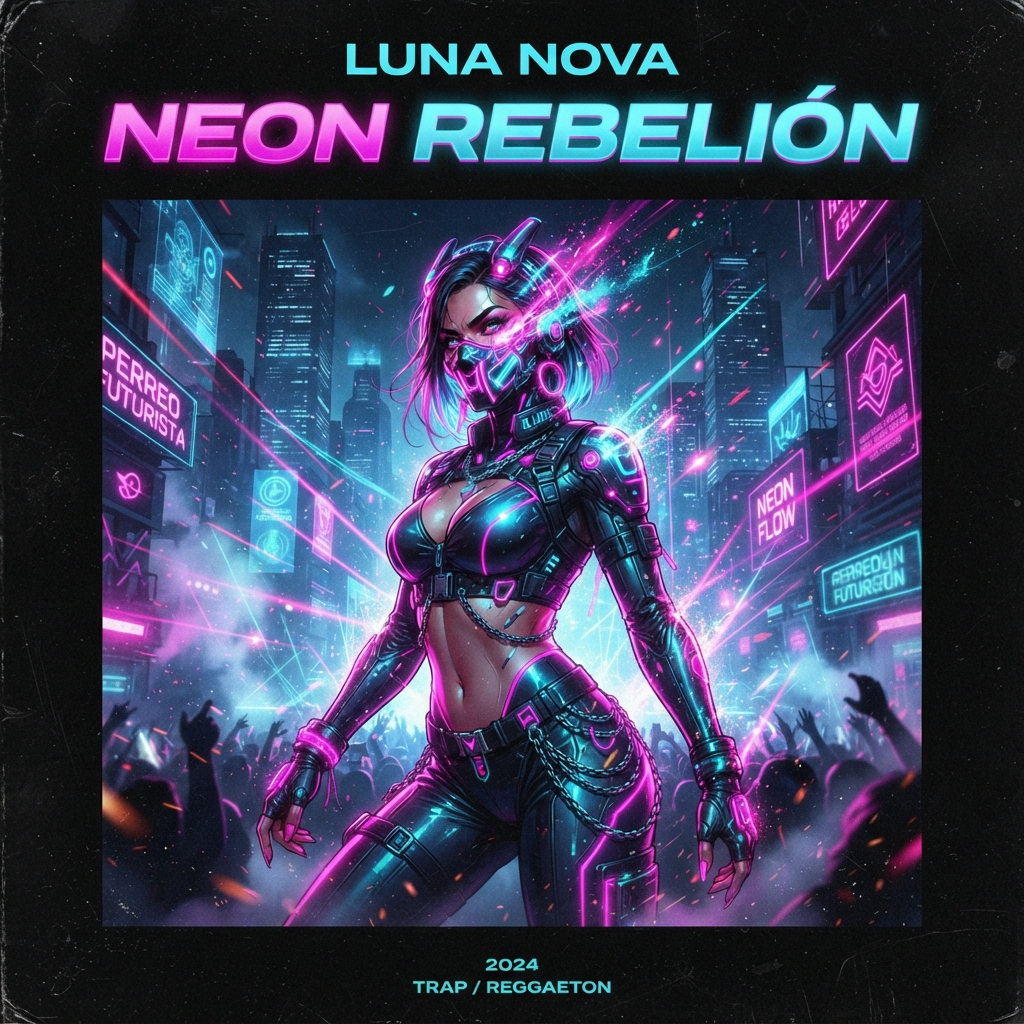
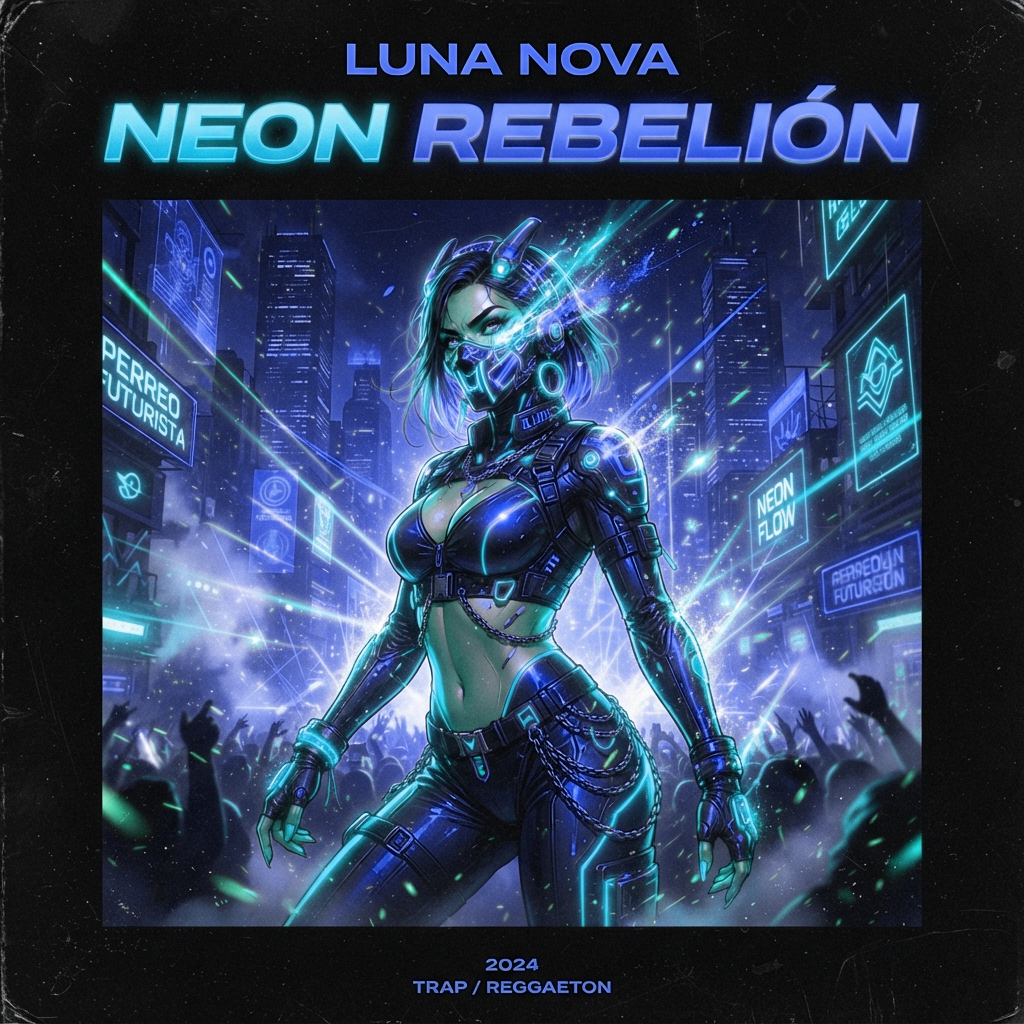
feat(design): switch palette to Electric Sapphire & Emerald Studio and cool studio covers

diff --git a/src/index.css b/src/index.css
@@ -4,53 +4,53 @@
 
 :root,
 [data-theme='light'] {
-  --bg-primary: #F4F5FA;
+  --bg-primary: #F2F6FC;
   --bg-mesh:
-    radial-gradient(at 12% 8%, rgba(99, 102, 241, 0.14) 0px, transparent 48%),
-    radial-gradient(at 88% 12%, rgba(236, 72, 153, 0.12) 0px, transparent 46%),
-    radial-gradient(at 52% 92%, rgba(249, 115, 22, 0.10) 0px, transparent 52%);
-  --bg-card: rgba(255, 255, 255, 0.88);
-  --bg-elevated: #ECEEF6;
-  --text-primary: #0B0D17;
-  --text-muted: #525866;
-  --brand-primary: #4F46E5;
+    radial-gradient(at 12% 8%, rgba(37, 99, 235, 0.13) 0px, transparent 48%),
+    radial-gradient(at 88% 12%, rgba(6, 182, 212, 0.12) 0px, transparent 46%),
+    radial-gradient(at 52% 92%, rgba(16, 185, 129, 0.09) 0px, transparent 52%);
+  --bg-card: rgba(255, 255, 255, 0.90);
+  --bg-elevated: #E6EEF8;
+  --text-primary: #090E1A;
+  --text-muted: #475569;
+  --brand-primary: #2563EB;
   --on-brand: #FFFFFF;
-  --brand-soft: rgba(99, 102, 241, 0.12);
-  --brand-coral: #DB2777;
+  --brand-soft: rgba(37, 99, 235, 0.11);
+  --brand-coral: #0284C7;
   --on-coral: #FFFFFF;
-  --coral-soft: rgba(236, 72, 153, 0.12);
-  --brand-amber: #EA580C;
-  --accent-amber: #D97706;
+  --coral-soft: rgba(6, 182, 212, 0.12);
+  --brand-amber: #059669;
+  --accent-amber: #059669;
   --accent-danger: #DC2626;
   --border-subtle: rgba(15, 23, 42, 0.09);
-  --ring-focus: #6366F1;
-  --ambient-opacity: 0.24;
-  --ambient-scrim: rgba(255, 255, 255, 0.72);
+  --ring-focus: #2563EB;
+  --ambient-opacity: 0.22;
+  --ambient-scrim: rgba(255, 255, 255, 0.76);
 }
 
 [data-theme='dark'] {
-  --bg-primary: #07080E;
+  --bg-primary: #060913;
   --bg-mesh:
-    radial-gradient(at 12% 8%, rgba(99, 102, 241, 0.24) 0px, transparent 50%),
-    radial-gradient(at 88% 12%, rgba(236, 72, 153, 0.18) 0px, transparent 48%),
-    radial-gradient(at 52% 92%, rgba(249, 115, 22, 0.14) 0px, transparent 54%);
-  --bg-card: rgba(18, 20, 32, 0.84);
-  --bg-elevated: rgba(30, 33, 50, 0.92);
+    radial-gradient(at 12% 8%, rgba(37, 99, 235, 0.24) 0px, transparent 50%),
+    radial-gradient(at 88% 12%, rgba(6, 182, 212, 0.18) 0px, transparent 48%),
+    radial-gradient(at 52% 92%, rgba(16, 185, 129, 0.12) 0px, transparent 54%);
+  --bg-card: rgba(13, 19, 34, 0.86);
+  --bg-elevated: rgba(23, 33, 56, 0.92);
   --text-primary: #F8FAFC;
   --text-muted: #94A3B8;
-  --brand-primary: #818CF8;
-  --on-brand: #090A14;
-  --brand-soft: rgba(129, 140, 248, 0.16);
-  --brand-coral: #F472B6;
-  --on-coral: #1B0712;
-  --coral-soft: rgba(244, 114, 182, 0.16);
-  --brand-amber: #FB923C;
-  --accent-amber: #F59E0B;
+  --brand-primary: #60A5FA;
+  --on-brand: #050914;
+  --brand-soft: rgba(59, 130, 246, 0.16);
+  --brand-coral: #22D3EE;
+  --on-coral: #041E24;
+  --coral-soft: rgba(34, 211, 238, 0.15);
+  --brand-amber: #34D399;
+  --accent-amber: #34D399;
   --accent-danger: #EF4444;
   --border-subtle: rgba(255, 255, 255, 0.10);
-  --ring-focus: #818CF8;
-  --ambient-opacity: 0.36;
-  --ambient-scrim: rgba(11, 13, 23, 0.68);
+  --ring-focus: #38BDF8;
+  --ambient-opacity: 0.34;
+  --ambient-scrim: rgba(6, 9, 19, 0.70);
 }
 
 @layer base {
@@ -77,7 +77,7 @@
 }
 
 .bg-brand-gradient {
-  background-image: linear-gradient(135deg, #6366F1 0%, #EC4899 52%, #F97316 100%);
+  background-image: linear-gradient(135deg, #4F46E5 0%, #2563EB 52%, #06B6D4 100%);
   color: #FFFFFF;
 }
 

diff --git a/android-tv/app/src/main/java/com/poneleplay/tv/ui/theme/Theme.kt b/android-tv/app/src/main/java/com/poneleplay/tv/ui/theme/Theme.kt
@@ -7,19 +7,19 @@ import androidx.tv.material3.MaterialTheme
 import androidx.tv.material3.darkColorScheme
 
 object PonelePlayTvColors {
-    val BgCanvas = Color(0xFF07080E)
-    val BgCard = Color(0xFF121420)
-    val BgElevated = Color(0xFF1E2132)
-    val BrandIndigo = Color(0xFF6366F1)
-    val BrandMagenta = Color(0xFFEC4899)
-    val BrandAmber = Color(0xFFF97316)
-    val BrandTeal = Color(0xFF818CF8)
-    val CoralAccent = Color(0xFFF472B6)
+    val BgCanvas = Color(0xFF060913)
+    val BgCard = Color(0xFF0D1322)
+    val BgElevated = Color(0xFF172138)
+    val BrandIndigo = Color(0xFF2563EB)
+    val BrandMagenta = Color(0xFF06B6D4)
+    val BrandAmber = Color(0xFF10B981)
+    val BrandTeal = Color(0xFF60A5FA)
+    val CoralAccent = Color(0xFF22D3EE)
     val OnBrandTeal = Color(0xFFFFFFFF)
     val TextPrimary = Color(0xFFF8FAFC)
     val TextMuted = Color(0xFF94A3B8)
     val BorderSubtle = Color(0xFF282C40)
-    val AmberGold = Color(0xFFF59E0B)
+    val AmberGold = Color(0xFF34D399)
 }
 
 @OptIn(ExperimentalTvMaterial3Api::class)

diff --git a/src/pages/LandingPage.tsx b/src/pages/LandingPage.tsx
@@ -117,9 +117,9 @@ export const LandingPage: React.FC = () => {
                     <div className="min-w-0">
                       <div className="flex items-center gap-1.5">
                         <span className="eq-bar h-2.5 w-0.5 rounded-full bg-white" />
-                        <span className="eq-bar eq-bar-2 h-3.5 w-0.5 rounded-full bg-pink-400" />
-                        <span className="eq-bar eq-bar-3 h-2 w-0.5 rounded-full bg-orange-400" />
-                        <span className="font-mono text-[10px] font-bold uppercase tracking-wider text-pink-300">
+                        <span className="eq-bar eq-bar-2 h-3.5 w-0.5 rounded-full bg-sky-400" />
+                        <span className="eq-bar eq-bar-3 h-2 w-0.5 rounded-full bg-emerald-400" />
+                        <span className="font-mono text-[10px] font-bold uppercase tracking-wider text-cyan-300">
                           En vivo · PLAY42
                         </span>
                       </div>

diff --git a/src/components/PonelePlayLogo.tsx b/src/components/PonelePlayLogo.tsx
@@ -31,9 +31,9 @@ export const PonelePlayLogo: React.FC<PonelePlayLogoProps> = ({
       >
         <defs>
           <linearGradient id={`${gradId}-bg`} x1="0" y1="0" x2="48" y2="48" gradientUnits="userSpaceOnUse">
-            <stop offset="0%" stopColor="#6366F1" />
-            <stop offset="52%" stopColor="#EC4899" />
-            <stop offset="100%" stopColor="#F97316" />
+            <stop offset="0%" stopColor="#4F46E5" />
+            <stop offset="52%" stopColor="#2563EB" />
+            <stop offset="100%" stopColor="#06B6D4" />
           </linearGradient>
           <linearGradient id={`${gradId}-sheen`} x1="12" y1="4" x2="36" y2="26" gradientUnits="userSpaceOnUse">
             <stop offset="0%" stopColor="#FFFFFF" stopOpacity="0.42" />

diff --git a/index.html b/index.html
@@ -3,7 +3,7 @@
   <head>
     <meta charset="UTF-8" />
     <meta name="viewport" content="width=device-width, initial-scale=1.0, viewport-fit=cover" />
-    <meta name="theme-color" content="#6366F1" />
+    <meta name="theme-color" content="#2563EB" />
     <meta name="description" content="PonelePlay V2 — Jukebox colaborativo en tiempo real para fiestas con YouTube Music (sin Premium), Spotify, PWA y Android TV." />
     <link rel="icon" type="image/svg+xml" href="/icons/icon-192.svg" />
     <link rel="apple-touch-icon" href="/icons/icon-192.svg" />

diff --git a/tailwind.config.js b/tailwind.config.js
@@ -26,9 +26,9 @@ export default {
         mono: ['"JetBrains Mono"', 'monospace'],
       },
       boxShadow: {
-        surface: '0 8px 30px -6px rgba(99, 102, 241, 0.14)',
-        elevated: '0 20px 44px -10px rgba(15, 23, 42, 0.22)',
-        aurora: '0 12px 32px -6px rgba(236, 72, 153, 0.32)',
+        surface: '0 8px 30px -6px rgba(37, 99, 235, 0.14)',
+        elevated: '0 20px 44px -10px rgba(9, 14, 26, 0.22)',
+        aurora: '0 12px 32px -6px rgba(6, 182, 212, 0.34)',
       }
     }
   },

diff --git a/vite.config.ts b/vite.config.ts
@@ -12,8 +12,8 @@ export default defineConfig({
         name: 'PonelePlay V2 — Social Party Jukebox',
         short_name: 'PonelePlay',
         description: 'Jukebox colaborativo en tiempo real para fiestas con YouTube Music (sin Premium) y Spotify.',
-        theme_color: '#6366F1',
-        background_color: '#F4F5FA',
+        theme_color: '#2563EB',
+        background_color: '#F2F6FC',
         display: 'standalone',
         orientation: 'portrait',
         start_url: '/',

diff --git a/design-system/poneleplay-v2/MASTER.md b/design-system/poneleplay-v2/MASTER.md
@@ -1,55 +1,55 @@
-# Design System Master File — Sonic Aurora (Daylight Studio & Obsidian Aurora)
+# Design System Master File — Electric Sapphire & Emerald Studio
 
 **Project:** PonelePlay V2  
 **Updated:** 2026-11-16  
-**Logo:** **Sonic Prism** — Squircle diagonal `#6366F1 -> #EC4899 -> #F97316` con brillo cristalino, ondas acústicas y núcleo `P + Play`, acompañado de wordmark `Ponele` + `Play` ([PonelePlayLogo.tsx](file:///d:/PonelePlay%20V2/src/components/PonelePlayLogo.tsx))  
-**Rule:** Modo Claro (**Daylight Studio**) y Modo Oscuro (**Obsidian Aurora**) 100% separados por tema activo (cero mezcla entre temas en una misma vista, incluyendo Modo TV y App Smart TV).
+**Logo:** **Sonic Prism** — Squircle diagonal Indigo -> Zafiro -> Cyan (`#4F46E5 -> #2563EB -> #06B6D4`) con brillo cristalino, ondas acústicas y núcleo `P + Play`, acompañado de wordmark `Ponele` + `Play` ([PonelePlayLogo.tsx](file:///d:/PonelePlay%20V2/src/components/PonelePlayLogo.tsx))  
+**Rule:** Modo Claro (**Arctic Sapphire Studio**) y Modo Oscuro (**Abyssal Sapphire**) 100% separados por tema activo (cero mezcla entre temas en una misma vista, incluyendo Modo TV y App Smart TV, y cero tonos rosados, fucsias o anaranjados).
 
 ## Color Tokens
 
-### Light Mode — Daylight Studio (`:root, [data-theme='light']`)
+### Light Mode — Arctic Sapphire Studio (`:root, [data-theme='light']`)
 | Role | Value | CSS Variable |
 |---|---|---|
-| Canvas | `#F4F5FA` | `--bg-primary` |
-| Ambient Mesh | `radial-gradient` Indigo (`0.14`), Magenta (`0.12`), Amber (`0.10`) | `--bg-mesh` |
-| Card (Glass) | `rgba(255, 255, 255, 0.88)` | `--bg-card` |
-| Elevated | `#ECEEF6` | `--bg-elevated` |
-| Ink Primary | `#0B0D17` | `--text-primary` |
-| Ink Muted | `#525866` | `--text-muted` |
-| Brand Indigo | `#4F46E5` | `--brand-primary` |
+| Canvas | `#F2F6FC` | `--bg-primary` |
+| Ambient Mesh | `radial-gradient` Sapphire (`0.13`), Cyan (`0.12`), Emerald (`0.09`) | `--bg-mesh` |
+| Card (Glass) | `rgba(255, 255, 255, 0.90)` | `--bg-card` |
+| Elevated | `#E6EEF8` | `--bg-elevated` |
+| Ink Primary | `#090E1A` | `--text-primary` |
+| Ink Muted | `#475569` | `--text-muted` |
+| Brand Sapphire | `#2563EB` | `--brand-primary` |
 | On Brand | `#FFFFFF` | `--on-brand` |
-| Brand Soft | `rgba(99, 102, 241, 0.12)` | `--brand-soft` |
-| Accent Magenta | `#DB2777` | `--brand-coral` |
-| On Coral | `#FFFFFF` | `--on-coral` |
-| Coral Soft | `rgba(236, 72, 153, 0.12)` | `--coral-soft` |
-| Brand Amber | `#EA580C` | `--brand-amber` |
+| Brand Soft | `rgba(37, 99, 235, 0.11)` | `--brand-soft` |
+| Accent Sky / Cyan | `#0284C7` | `--brand-coral` |
+| On Accent | `#FFFFFF` | `--on-coral` |
+| Accent Soft | `rgba(6, 182, 212, 0.12)` | `--coral-soft` |
+| Emerald Accent | `#059669` | `--brand-amber` / `--accent-amber` |
 | Hairline Border | `rgba(15, 23, 42, 0.09)` | `--border-subtle` |
-| Ambient Opacity / Scrim | `0.24` / `rgba(255, 255, 255, 0.72)` | `--ambient-opacity` / `--ambient-scrim` |
+| Ambient Opacity / Scrim | `0.22` / `rgba(255, 255, 255, 0.76)` | `--ambient-opacity` / `--ambient-scrim` |
 
-### Dark Mode — Obsidian Aurora (`[data-theme='dark']`)
+### Dark Mode — Abyssal Sapphire (`[data-theme='dark']`)
 | Role | Value | CSS Variable |
 |---|---|---|
-| Canvas | `#07080E` | `--bg-primary` |
-| Ambient Mesh | `radial-gradient` Indigo (`0.24`), Magenta (`0.18`), Amber (`0.14`) | `--bg-mesh` |
-| Card (Glass) | `rgba(18, 20, 32, 0.84)` | `--bg-card` |
-| Elevated | `rgba(30, 33, 50, 0.92)` | `--bg-elevated` |
+| Canvas | `#060913` | `--bg-primary` |
+| Ambient Mesh | `radial-gradient` Sapphire (`0.24`), Cyan (`0.18`), Emerald (`0.12`) | `--bg-mesh` |
+| Card (Glass) | `rgba(13, 19, 34, 0.86)` | `--bg-card` |
+| Elevated | `rgba(23, 33, 56, 0.92)` | `--bg-elevated` |
 | Ink Primary | `#F8FAFC` | `--text-primary` |
 | Ink Muted | `#94A3B8` | `--text-muted` |
-| Brand Indigo | `#818CF8` | `--brand-primary` |
-| On Brand | `#090A14` | `--on-brand` |
-| Brand Soft | `rgba(129, 140, 248, 0.16)` | `--brand-soft` |
-| Accent Magenta | `#F472B6` | `--brand-coral` |
-| On Coral | `#1B0712` | `--on-coral` |
-| Coral Soft | `rgba(244, 114, 182, 0.16)` | `--coral-soft` |
-| Brand Amber | `#FB923C` | `--brand-amber` |
+| Brand Sky Blue | `#60A5FA` | `--brand-primary` |
+| On Brand | `#050914` | `--on-brand` |
+| Brand Soft | `rgba(59, 130, 246, 0.16)` | `--brand-soft` |
+| Accent Cyber Cyan | `#22D3EE` | `--brand-coral` |
+| On Accent | `#041E24` | `--on-coral` |
+| Accent Soft | `rgba(34, 211, 238, 0.15)` | `--coral-soft` |
+| Emerald Accent | `#34D399` | `--brand-amber` / `--accent-amber` |
 | Hairline Border | `rgba(255, 255, 255, 0.10)` | `--border-subtle` |
-| Ambient Opacity / Scrim | `0.36` / `rgba(11, 13, 23, 0.68)` | `--ambient-opacity` / `--ambient-scrim` |
+| Ambient Opacity / Scrim | `0.34` / `rgba(6, 9, 19, 0.70)` | `--ambient-opacity` / `--ambient-scrim` |
 
 ### Brand Gradient & Ambient Effects
-- `.bg-brand-gradient`: `linear-gradient(135deg, #6366F1 0%, #EC4899 52%, #F97316 100%)`, `color: #FFFFFF` (uso exclusivo en botones primarios, badges activos, emblema Sonic Prism y controles focales; texto siempre en tonos sólidos de alto contraste)
+- `.bg-brand-gradient`: `linear-gradient(135deg, #4F46E5 0%, #2563EB 52%, #06B6D4 100%)`, `color: #FFFFFF` (uso exclusivo en botones primarios, badges activos, emblema Sonic Prism y controles focales; texto siempre en tonos sólidos de alto contraste)
 - `.glass-card`: `background-color: var(--bg-card); backdrop-filter: blur(22px);`
 - `.ambient-cover-blur` + `.ambient-scrim`: halo cromático difuminado de portada (`blur(46px) saturate(1.55)`) con scrim de contraste garantizado (`>= 4.5:1`)
-- Shadow Aurora (`shadow-aurora`): `0 12px 32px -6px rgba(236, 72, 153, 0.32)`
+- Shadow Aurora (`shadow-aurora`): `0 12px 32px -6px rgba(6, 182, 212, 0.34)`
 
 ## Typography & Interaction
 - **Display:** `Outfit` (500, 600, 700, 800)

diff --git a/docs/specs/02-stitch-master-prompt.md b/docs/specs/02-stitch-master-prompt.md
@@ -1,58 +1,58 @@
-# Pliego de Diseño Formal — PonelePlay V2 (Sonic Aurora)
+# Pliego de Diseño Formal — PonelePlay V2 (Electric Sapphire & Emerald Studio)
 
-**Identidad Visual:** Logo **Sonic Prism** (squircle diagonal Indigo -> Magenta -> Ámbar `#6366F1 -> #EC4899 -> #F97316` con brillo cristalino, ondas de audio y núcleo `P + Play`) + Sistema **Sonic Aurora** (**Daylight Studio** claro y **Obsidian Aurora** oscuro).  
-**Regla de Temas:** Modo Claro y Modo Oscuro 100% separados en todas las vistas (incluyendo Landing, Sala en Vivo, Modo TV Web, App Smart TV y Resumen Final).  
-**Regla de Portadas y Audio:** Reproductor horizontal compacto enfocado en portada de álbum (estudio AI en `/covers/`), nunca recuadro de video visible (`IFrame` oculto `sr-only`).
+**Identidad Visual:** Logo **Sonic Prism** (squircle diagonal Indigo -> Zafiro -> Cyan `#4F46E5 -> #2563EB -> #06B6D4` con brillo cristalino, ondas de audio y núcleo `P + Play`) + Sistema **Electric Sapphire & Emerald Studio** (**Arctic Sapphire Studio** claro y **Abyssal Sapphire** oscuro).  
+**Regla de Temas:** Modo Claro y Modo Oscuro 100% separados en todas las vistas (incluyendo Landing, Sala en Vivo, Modo TV Web, App Smart TV y Resumen Final), sin tonos rosados, fucsias ni anaranjados.  
+**Regla de Portadas y Audio:** Reproductor horizontal compacto enfocado en portada de álbum (estudio en `/covers/`), nunca recuadro de video visible (`IFrame` oculto `sr-only`).
 
 ```css
 :root,
 [data-theme='light'] {
-  --bg-primary: #F4F5FA;
+  --bg-primary: #F2F6FC;
   --bg-mesh:
-    radial-gradient(at 12% 8%, rgba(99, 102, 241, 0.14) 0px, transparent 48%),
-    radial-gradient(at 88% 12%, rgba(236, 72, 153, 0.12) 0px, transparent 46%),
-    radial-gradient(at 52% 92%, rgba(249, 115, 22, 0.10) 0px, transparent 52%);
-  --bg-card: rgba(255, 255, 255, 0.88);
-  --bg-elevated: #ECEEF6;
-  --text-primary: #0B0D17;
-  --text-muted: #525866;
-  --brand-primary: #4F46E5;
+    radial-gradient(at 12% 8%, rgba(37, 99, 235, 0.13) 0px, transparent 48%),
+    radial-gradient(at 88% 12%, rgba(6, 182, 212, 0.12) 0px, transparent 46%),
+    radial-gradient(at 52% 92%, rgba(16, 185, 129, 0.09) 0px, transparent 52%);
+  --bg-card: rgba(255, 255, 255, 0.90);
+  --bg-elevated: #E6EEF8;
+  --text-primary: #090E1A;
+  --text-muted: #475569;
+  --brand-primary: #2563EB;
   --on-brand: #FFFFFF;
-  --brand-soft: rgba(99, 102, 241, 0.12);
-  --brand-coral: #DB2777;
+  --brand-soft: rgba(37, 99, 235, 0.11);
+  --brand-coral: #0284C7;
   --on-coral: #FFFFFF;
-  --coral-soft: rgba(236, 72, 153, 0.12);
-  --brand-amber: #EA580C;
-  --accent-amber: #D97706;
+  --coral-soft: rgba(6, 182, 212, 0.12);
+  --brand-amber: #059669;
+  --accent-amber: #059669;
   --accent-danger: #DC2626;
   --border-subtle: rgba(15, 23, 42, 0.09);
-  --ring-focus: #6366F1;
-  --ambient-opacity: 0.24;
-  --ambient-scrim: rgba(255, 255, 255, 0.72);
+  --ring-focus: #2563EB;
+  --ambient-opacity: 0.22;
+  --ambient-scrim: rgba(255, 255, 255, 0.76);
 }
 
 [data-theme='dark'] {
-  --bg-primary: #07080E;
+  --bg-primary: #060913;
   --bg-mesh:
-    radial-gradient(at 12% 8%, rgba(99, 102, 241, 0.24) 0px, transparent 50%),
-    radial-gradient(at 88% 12%, rgba(236, 72, 153, 0.18) 0px, transparent 48%),
-    radial-gradient(at 52% 92%, rgba(249, 115, 22, 0.14) 0px, transparent 54%);
-  --bg-card: rgba(18, 20, 32, 0.84);
-  --bg-elevated: rgba(30, 33, 50, 0.92);
+    radial-gradient(at 12% 8%, rgba(37, 99, 235, 0.24) 0px, transparent 50%),
+    radial-gradient(at 88% 12%, rgba(6, 182, 212, 0.18) 0px, transparent 48%),
+    radial-gradient(at 52% 92%, rgba(16, 185, 129, 0.12) 0px, transparent 54%);
+  --bg-card: rgba(13, 19, 34, 0.86);
+  --bg-elevated: rgba(23, 33, 56, 0.92);
   --text-primary: #F8FAFC;
   --text-muted: #94A3B8;
-  --brand-primary: #818CF8;
-  --on-brand: #090A14;
-  --brand-soft: rgba(129, 140, 248, 0.16);
-  --brand-coral: #F472B6;
-  --on-coral: #1B0712;
-  --coral-soft: rgba(244, 114, 182, 0.16);
-  --brand-amber: #FB923C;
-  --accent-amber: #F59E0B;
+  --brand-primary: #60A5FA;
+  --on-brand: #050914;
+  --brand-soft: rgba(59, 130, 246, 0.16);
+  --brand-coral: #22D3EE;
+  --on-coral: #041E24;
+  --coral-soft: rgba(34, 211, 238, 0.15);
+  --brand-amber: #34D399;
+  --accent-amber: #34D399;
   --accent-danger: #EF4444;
   --border-subtle: rgba(255, 255, 255, 0.10);
-  --ring-focus: #818CF8;
-  --ambient-opacity: 0.36;
-  --ambient-scrim: rgba(11, 13, 23, 0.68);
+  --ring-focus: #38BDF8;
+  --ambient-opacity: 0.34;
+  --ambient-scrim: rgba(6, 9, 19, 0.70);
 }
 ```
